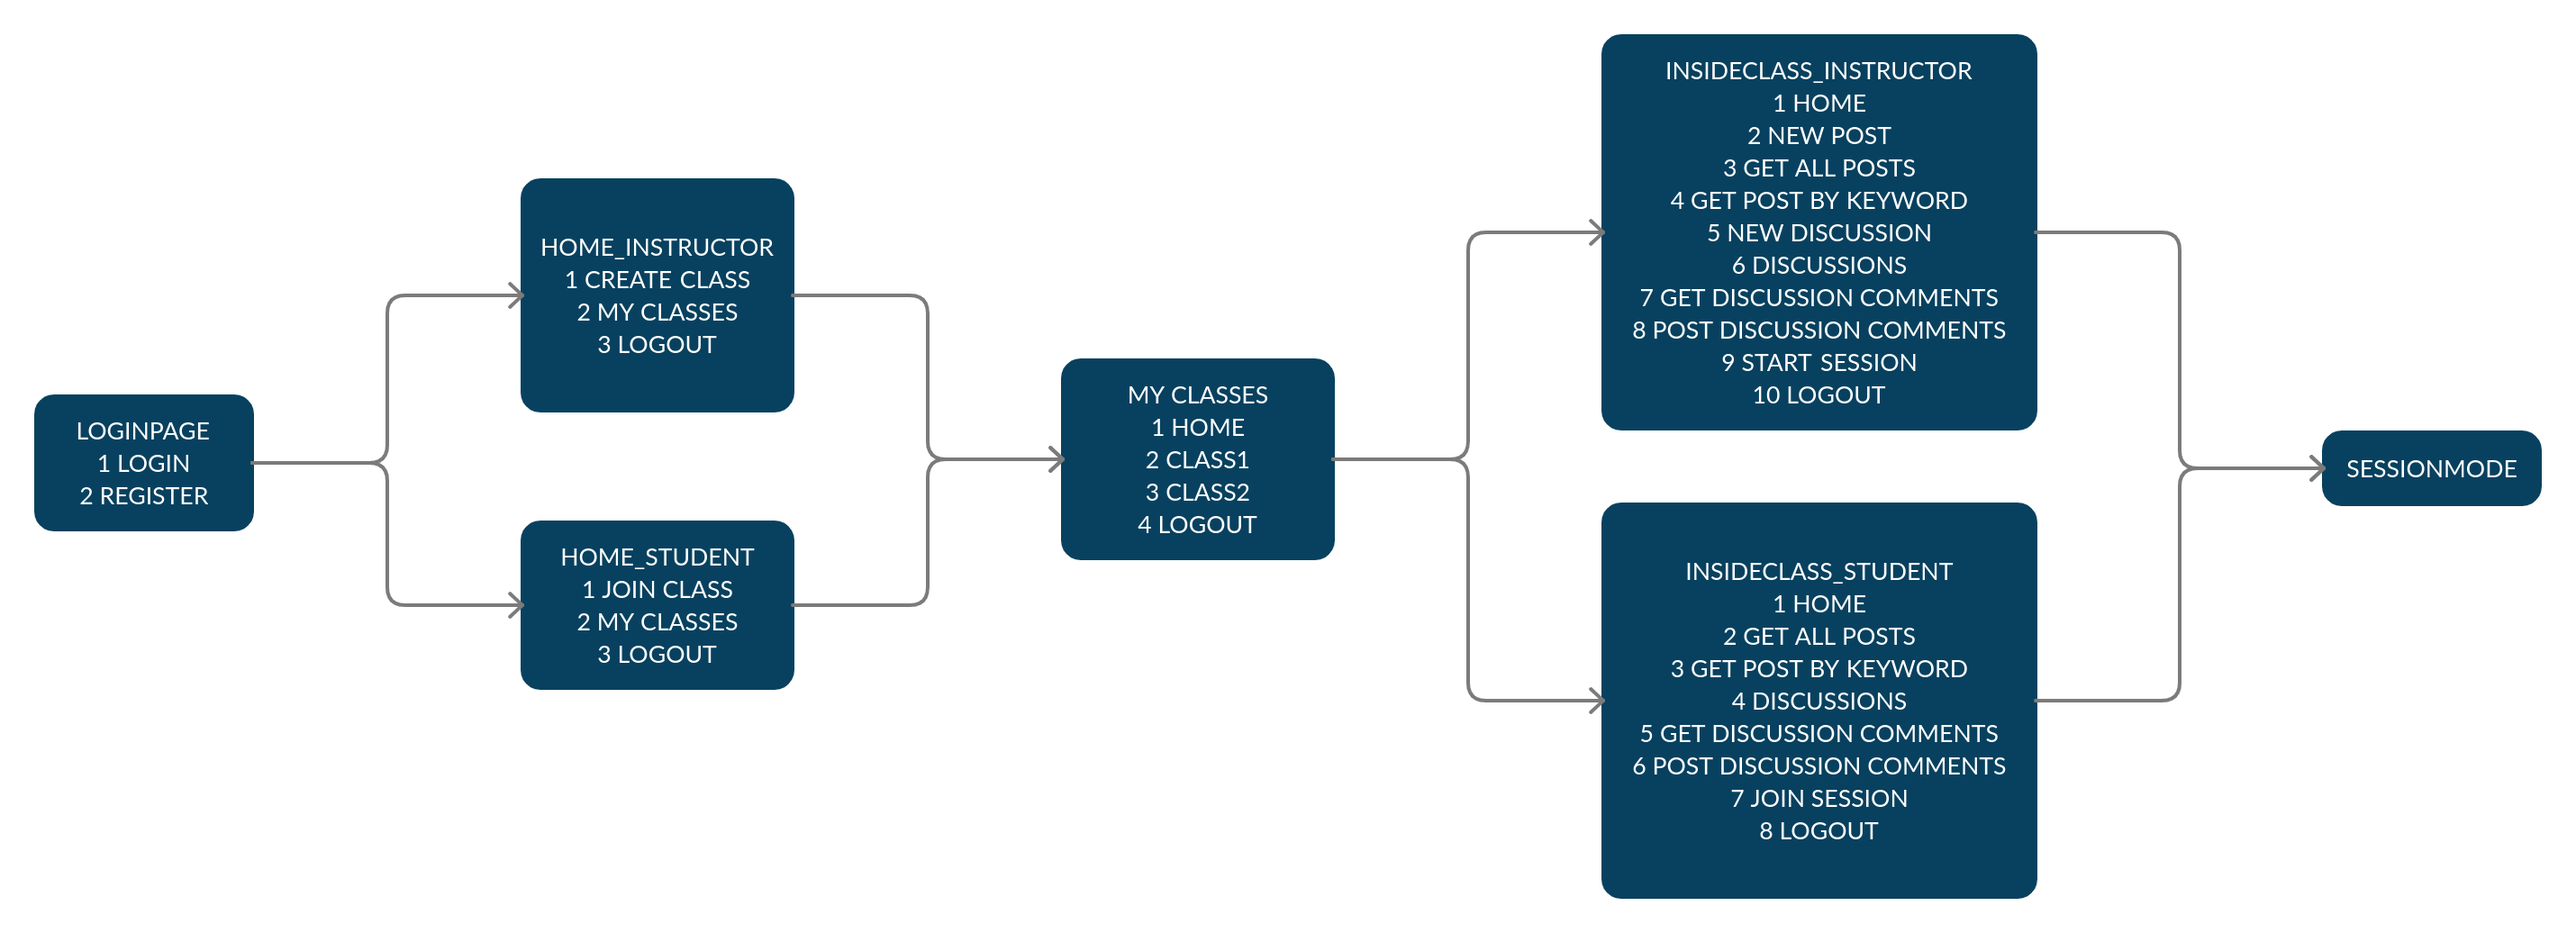
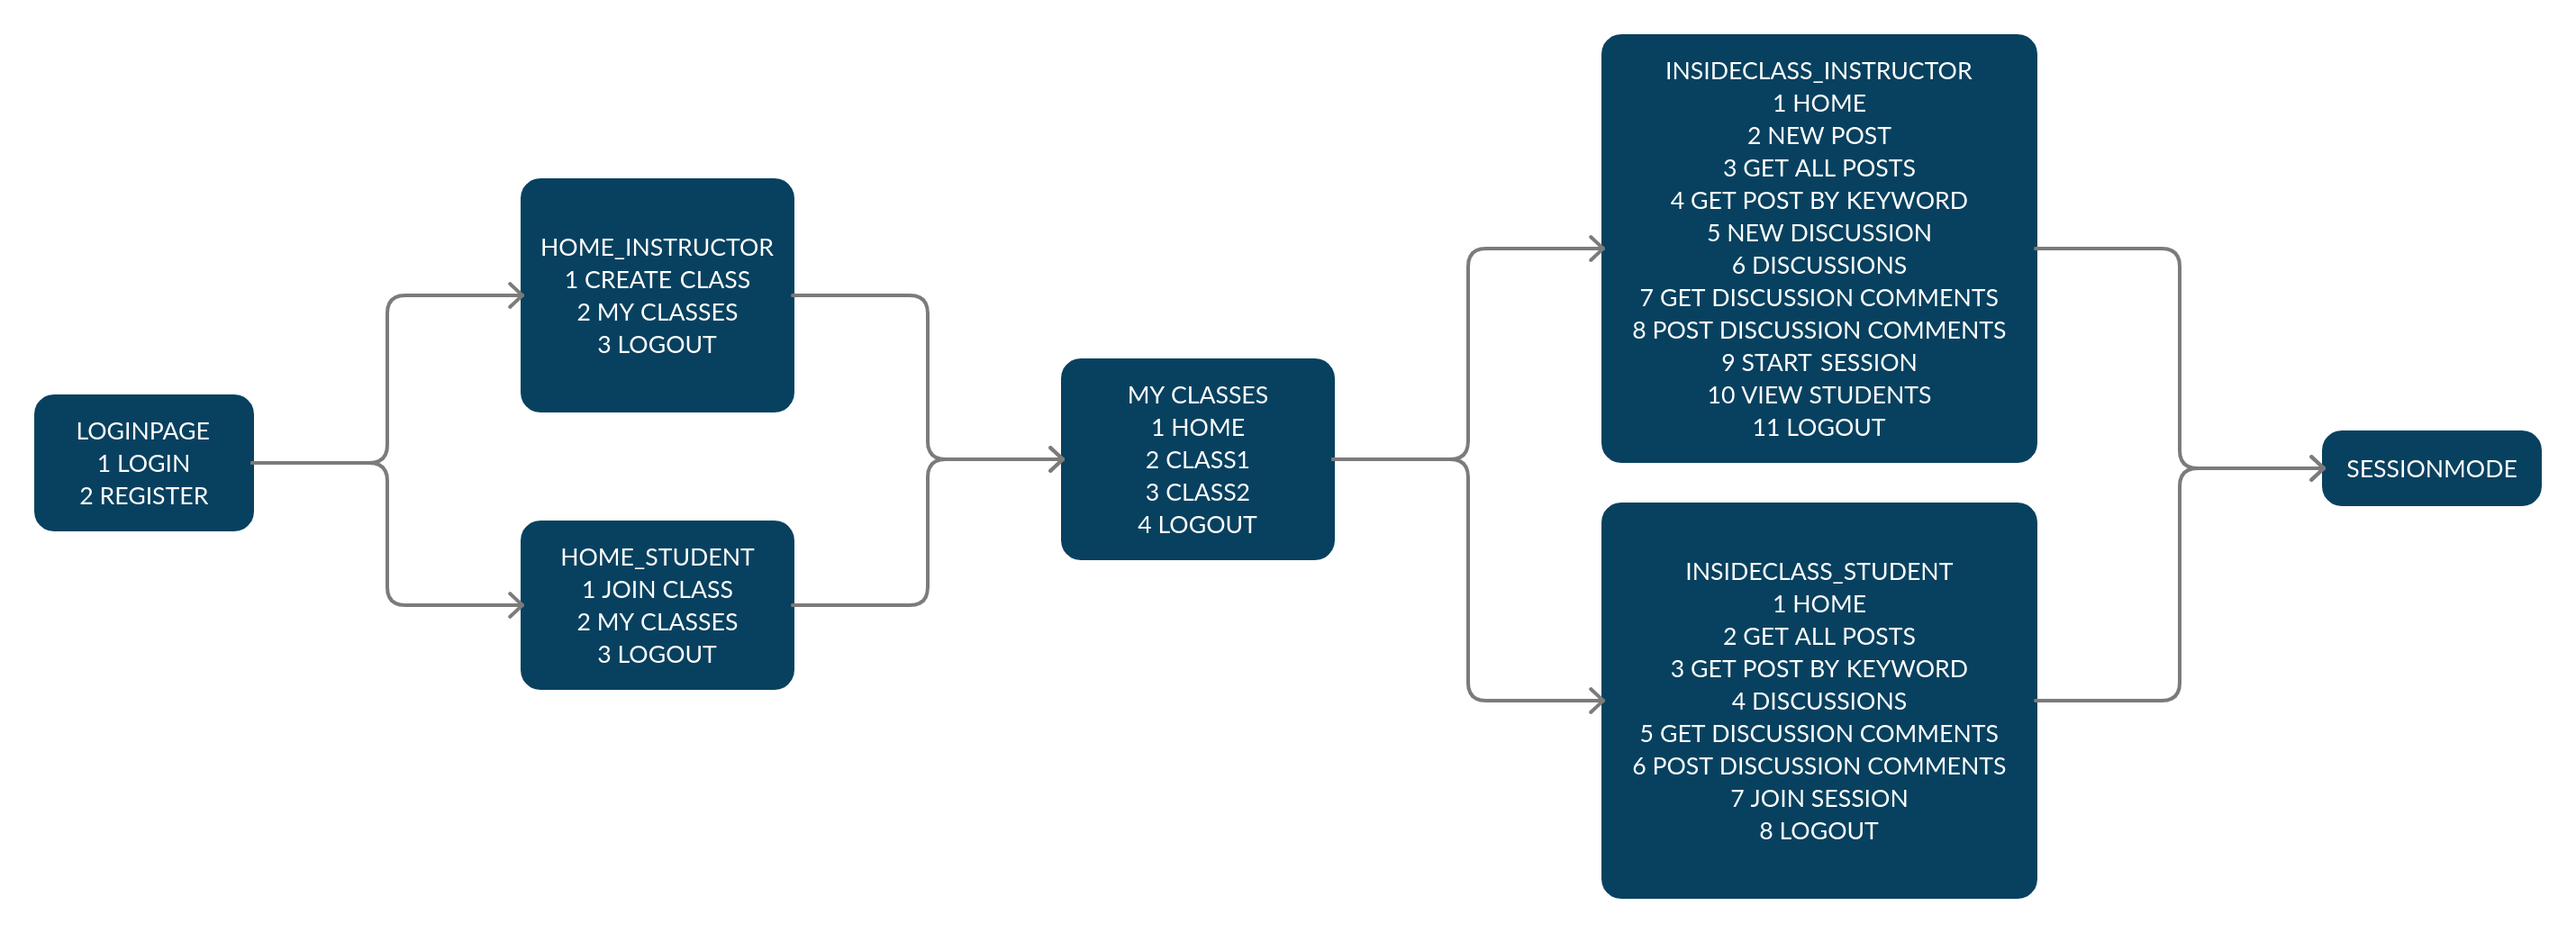
state diagram and readme update

Changed region(s): [[0.6224, 0.4015, 0.8091, 0.4942], [0.778, 0.2471, 0.8402, 0.278], [0.5601, 0.2471, 0.6224, 0.278]]

diff --git a/Readme.md b/Readme.md
@@ -33,5 +33,8 @@ Clients can only use the commands made available by the server. The server manag
 <br>
 
 ## Security Aspects
-Everytime the client connects to the server for accessing a feature or execution of a command, the server first authenticates the client and then proceeds with the execution.
-For multithreading, locks are held when writing to database tables.
+Everytime the client connects to the server for accessing a feature or execution of a command, the server first authenticates the client and then proceeds with the execution.<br>
+For multithreading, locks are held when writing to database tables.<br>
+The password is obscured duing taking input in login or register<br>
+The password is encrypted and send to the server<br>
+Only the Instructor can post, start a new discussion, start a new session and view list of enrolled students.
